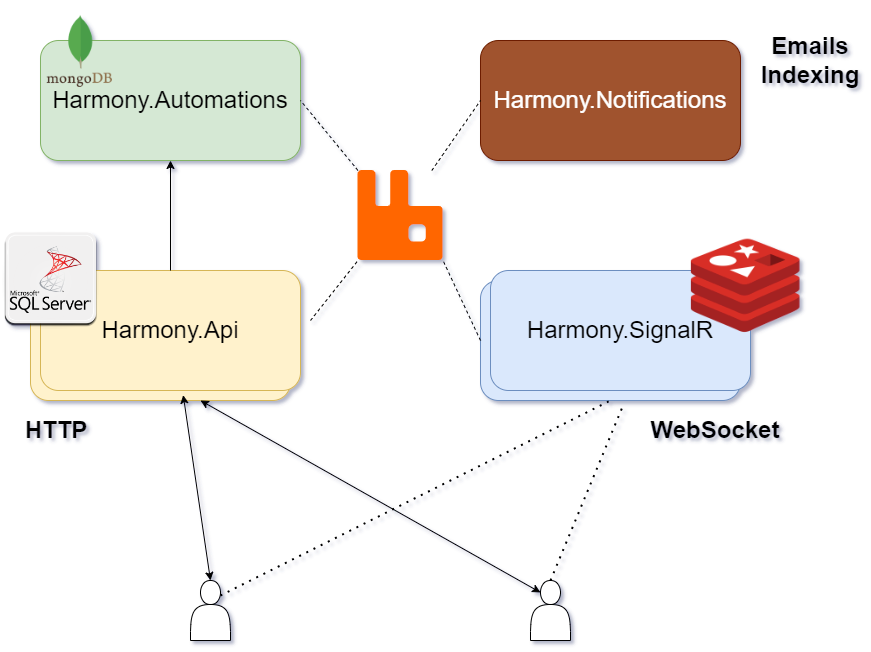
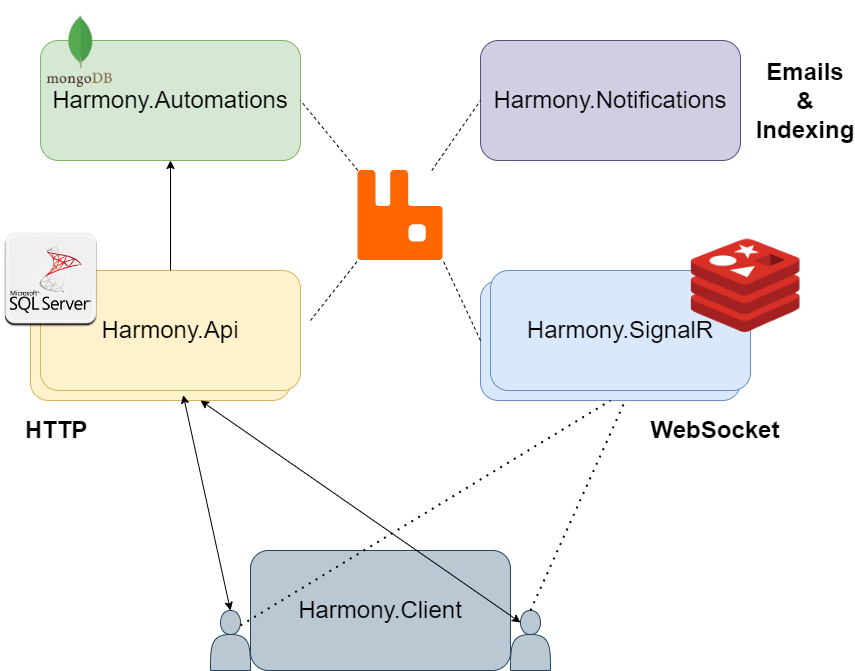
GITBOOK-172: No subject

diff --git a/overview/setup/README.md b/overview/setup/README.md
@@ -6,10 +6,11 @@ Harmony at its core is a web application built with **.NET 8.0** which means it'
 
 #### Architecture explained
 
-* **Harmony.Api** serves the ASP.NET Core Blazor web app
-* Clients connect to an instance of **Harmony.SignalR** web app which is responsible to push instant updates via WebSocket. Messages can be sent from any application via RabbitMQ. Scaling is supported via Redis Backplane.
-* **SQL Serve**r stores the required domain entities (workspaces, boards, cards, users)
-* Automations are stored in a MongoDB database. Automations are configured/written via the Harmony.Server web app and being read from **Harmony.Automations** upon message received via a RabbitMQ message.
+* Harmony.Client is the standalone Blazor WASM application. It communicates via HTTP with the Harmony.Api & connects via Websocket to Harmony.SignalR to receive instant updates.
+* **Harmony.Api** is the core API for managing domain entities. Soon it will be the only application accesing harmony database.
+* **Harmony.SignalR** is the web app which is responsible to push instant updates via WebSocket. Messages can be sent from any application via RabbitMQ. SignalR scaling is supported via Redis Backplane.
+* **SQL Serve**r stores the required domain entities (workspaces, boards, cards, users).
+* Automations are stored in a MongoDB database. Only the **Harmony.Automations** application has direct access to the MongoDB database. It provides HTTP endpoints to Harmony.Api and runs automations upon message received via a RabbitMQ message.
 * **Harmony.Notifications** is responsible for sending email notifications to users & optionally sending indexing requests to an integrated search service _(if any)_.
 
 {% hint style="info" %}
@@ -31,8 +32,6 @@ Don't get overwhelmed by the number of things you need to setup before firing up
 
 1. Database migrations & seeding can run automatically during startup which means you don't have to manually run them.
 2. &#x20;RabbitMQ exchanges/queues are being created for you.&#x20;
-
-
 
 This means that if you want to start Harmony from Visual Studio, the only thing required is to install the required infrastructure on your machine, SQL Server, MongoDB, RabbitMQ, Redis, place the correct connection strings  & just setup the [startup projects](before-running.md) on Visual Studio.\
 \
